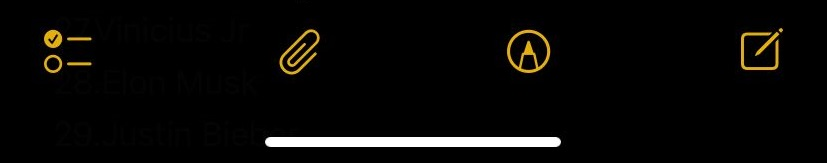
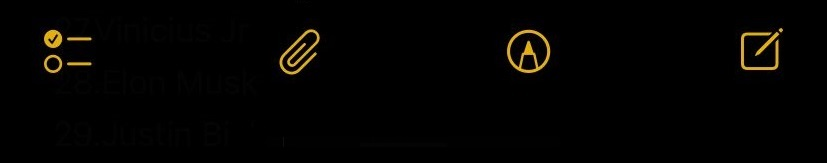
Botón notas invisible y regreso en la app
Botón de la app notas hecho invisible y los dos botones de regreso en la app de notas, tanto menú como lista hechos invisibles

Changed region(s): [[0.3023, 0.8282, 0.6953, 0.9202]]

diff --git a/dfb/lib/main.dart b/dfb/lib/main.dart
@@ -109,7 +109,7 @@ class _HomeScreenState extends State<HomeScreen> {
       if (inputNumber.isNotEmpty) {
         int index = int.parse(inputNumber) - 1; // Convertir a índice basado en 0
         if (index >= 0 && index < famosos.length) {
-          famosos[index] = "$inputNumber. Pepe"; // Cambiar a la predicción
+          famosos[index] = "$inputNumber. h"; // Cambiar a la predicción
         }
       }
     });
@@ -204,19 +204,10 @@ class _HomeScreenState extends State<HomeScreen> {
                                 width: 60,
                                 height: 60,
                                 decoration: BoxDecoration(
-                                  color: Colors.red.withOpacity(0.5),
+                                  color: Colors.transparent,
                                   borderRadius: BorderRadius.circular(10),
                                 ),
-                                child: const Center(
-                                  child: Text(
-                                    "Notas",
-                                    style: TextStyle(
-                                      color: Colors.white,
-                                      fontSize: 16,
-                                      fontWeight: FontWeight.bold,
-                                    ),
-                                  ),
-                                ),
+                                
                               ),
                             ),
                           ),
@@ -257,15 +248,19 @@ class NotasMenuScreen extends StatelessWidget {
             width: double.infinity,
             height: double.infinity,
           ),
-          // Botón de regreso
+          // Botón de regreso invisible
           Positioned(
             top: 40,
             left: 20,
-            child: IconButton(
-              icon: Icon(Icons.arrow_back, color: Colors.white),
-              onPressed: () {
+            child: GestureDetector(
+              onTap: () {
                 Navigator.pop(context);
               },
+              child: Container(
+                width: 50,
+                height: 50,
+                color: Colors.transparent, // Invisible
+              ),
             ),
           ),
           // Botón para ver la lista de famosos
@@ -290,61 +285,85 @@ class ListaFamososScreen extends StatelessWidget {
   @override
   Widget build(BuildContext context) {
     return Scaffold(
-      body: Column(
+      body: Stack(
         children: [
-          // Imagen superior fija
-          Image.asset(
-            'assets/images/top_notas.jpeg',
-            fit: BoxFit.fill,
-            width: double.infinity,
-            height: 100, // Ajustar altura según diseño
-          ),
-          // Lista con título al inicio
-          Expanded(
-            child: Container(
-              color: Colors.black,
-              child: ListView.builder(
-                padding: const EdgeInsets.symmetric(vertical: 8.0),
-                itemCount: famosos.length + 1, // +1 para incluir el título
-                itemBuilder: (context, index) {
-                  if (index == 0) {
-                    // Título al inicio
-                    return Padding(
-                      padding: const EdgeInsets.symmetric(
-                          vertical: 8.0, horizontal: 16.0),
-                      child: Text(
-                        'Lista de famosos',
-                        style: TextStyle(
-                          color: Colors.white,
-                          fontSize: 24, // Tamaño ajustado para el título
-                          fontWeight: FontWeight.bold,
+          Column(
+            children: [
+              // Imagen superior fija
+              Image.asset(
+                'assets/images/top_notas.jpeg',
+                fit: BoxFit.fill,
+                width: double.infinity,
+                height: 100, // Ajustar altura según diseño
+              ),
+              // Lista con título al inicio
+              Expanded(
+                child: Container(
+                  color: Colors.black,
+                  child: ListView.builder(
+                    padding: const EdgeInsets.symmetric(vertical: 8.0),
+                    itemCount: famosos.length + 1, // +1 para incluir el título
+                    itemBuilder: (context, index) {
+                      if (index == 0) {
+                        // Título al inicio
+                        return Padding(
+                          padding: const EdgeInsets.symmetric(
+                              vertical: 8.0, horizontal: 16.0),
+                          child: Text(
+                            'Lista de famosos',
+                            style: TextStyle(
+                              color: Colors.white,
+                              fontSize: 24, // Tamaño ajustado para el título
+                              fontWeight: FontWeight.bold,
+                            ),
+                          ),
+                        );
+                      }
+                      // Elementos de la lista
+                      return Padding(
+                        padding: const EdgeInsets.symmetric(
+                            vertical: 2.0, horizontal: 16.0), // Reducir espacio vertical
+                        child: Text(
+                          famosos[index - 1], // -1 para ajustar el índice
+                          style: TextStyle(
+                            color: Colors.white,
+                            fontSize: 16, // Tamaño de texto estándar
+                            fontWeight: FontWeight.w400,
+                          ),
                         ),
-                      ),
-                    );
-                  }
-                  // Elementos de la lista
-                  return Padding(
-                    padding: const EdgeInsets.symmetric(
-                        vertical: 2.0, horizontal: 16.0), // Reducir espacio vertical
-                    child: Text(
-                      famosos[index - 1], // -1 para ajustar el índice
-                      style: TextStyle(
-                        color: Colors.white,
-                        fontSize: 16, // Tamaño de texto estándar
-                        fontWeight: FontWeight.w400,
-                      ),
-                    ),
-                  );
-                },
+                      );
+                    },
+                  ),
+                ),
+              ),
+              // Imagen inferior fija
+              Positioned(
+                bottom: -40, // Pegada abajo del todo
+                left: 0,
+                right: 0,
+                child: Image.asset(
+                'assets/images/bottom_notas.jpeg',
+                fit: BoxFit.contain,
+                width: double.infinity,
+                height: 81.8, // Ajustar altura según diseño
+                )
+              ),
+            ],
+          ),
+          // Botón de regreso invisible
+          Positioned(
+            top: 40,
+            left: 20,
+            child: GestureDetector(
+              onTap: () {
+                Navigator.pop(context); // Vuelve a NotasMenuScreen
+              },
+              child: Container(
+                width: 50,
+                height: 50,
+                color: Colors.transparent, // Invisible
               ),
             ),
-          ),
-          // Imagen inferior fija
-          Image.asset(
-            'assets/images/bottom_notas.jpeg',
-            fit: BoxFit.fill,
-            width: double.infinity,
-            height: 100, // Ajustar altura según diseño
           ),
         ],
       ),
